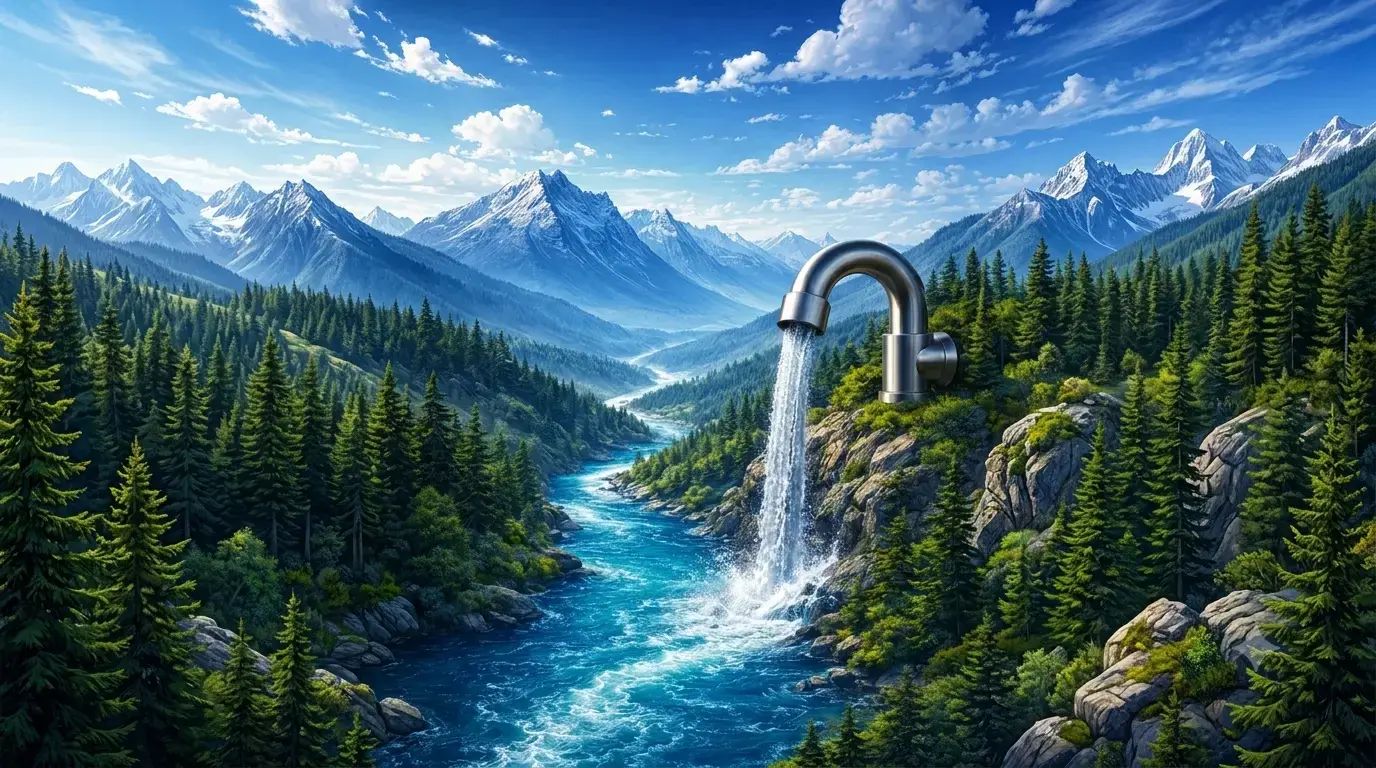
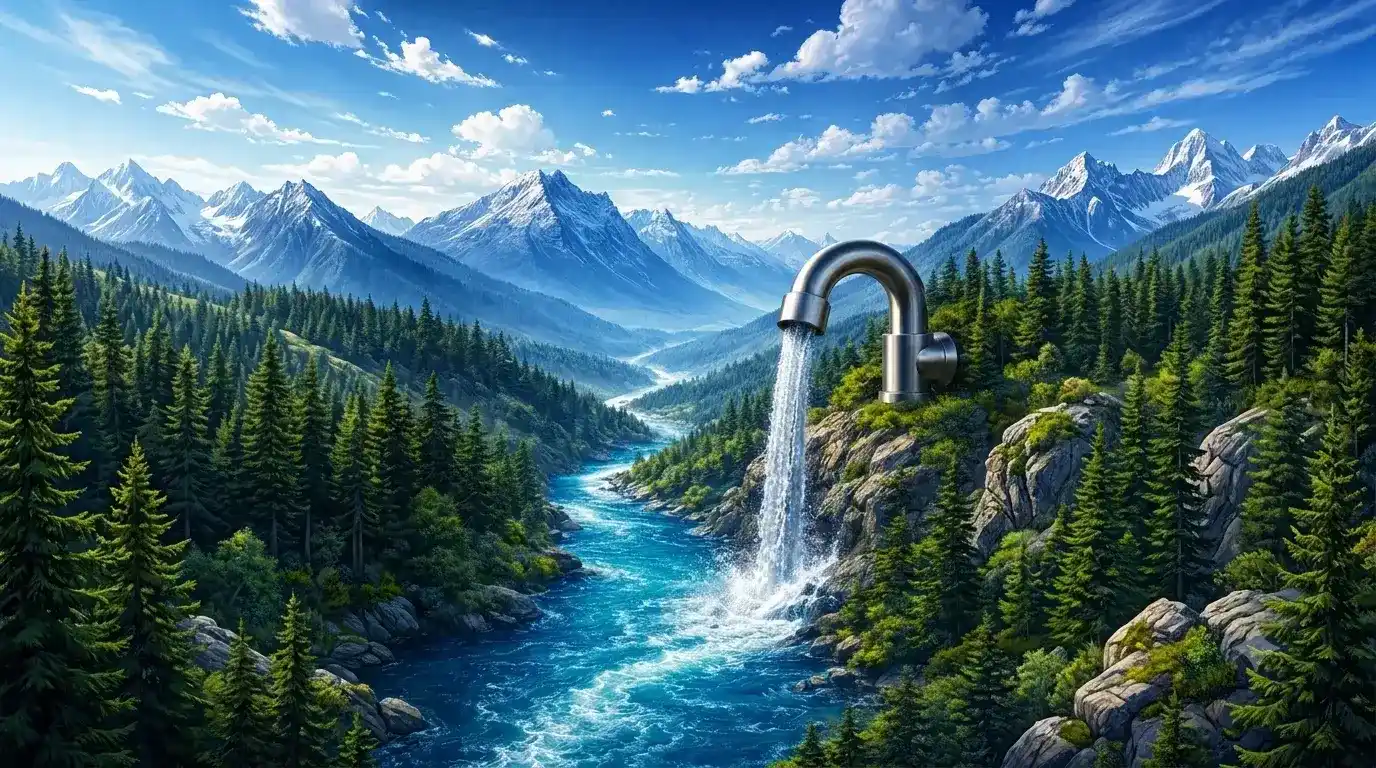
Compress hero image and preload for faster LCP

diff --git a/src/App.jsx b/src/App.jsx
@@ -8,6 +8,16 @@ import vanFull from './assets/van-full.webp'
 import vanBrand from './assets/van-brand.webp'
 import ContactForm from './ContactForm'
 
+// Preload the hero image as early as possible
+if (typeof document !== 'undefined') {
+  const link = document.createElement('link')
+  link.rel = 'preload'
+  link.as = 'image'
+  link.href = heroImage
+  link.fetchPriority = 'high'
+  document.head.appendChild(link)
+}
+
 
 export default function App() {
   const [isMenuOpen, setIsMenuOpen] = useState(false)
